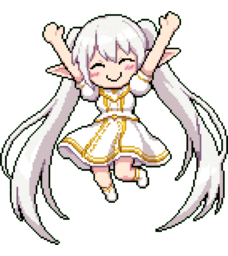
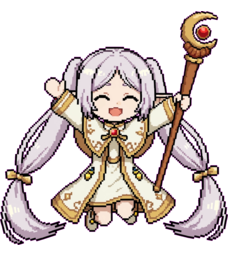
docs(frieren): real reading/celebrate sprites, sprite prompt, archify architecture diagram
- reading.png + celebrate.png generated from the adapted sprite prompt
  (idle.png as style reference, magenta chroma, 228x256 with blink rects)
- assets/SPRITE_PROMPT.md records the prompt and the post-process pipeline
- .archify architecture diagram of ShellRoot, chat, opencode, db, tray, voice
- README links to the diagram and the sprite prompt

diff --git a/assets/SPRITE_PROMPT.md b/assets/SPRITE_PROMPT.md
@@ -1,0 +1,51 @@
+# Sprite prompt (poses nuevas)
+
+Prompt adaptado del original (6 poses, ChatGPT) para generar poses nuevas de a
+pares manteniendo al personaje consistente. Referencia visual: usar
+`quickshell/frieren/assets/poses/idle.png` como imagen adjunta.
+
+## ES
+
+Usá la imagen adjunta como referencia exacta del personaje y del estilo.
+
+Generá una HOJA DE SPRITES de 2 columnas por 1 fila, en 1024x512, con 2 celdas iguales de 512x512. Sin líneas de división, sin marcos, sin texto, sin números, sin títulos y sin etiquetas. Las 2 celdas van pegadas, sin espacios entre ellas.
+
+FONDO: magenta puro #FF00FF, plano y uniforme en toda la imagen. No uses otro color de fondo, ni degradados, ni sombras.
+
+PERSONAJE (idéntico en las 2 celdas): Frieren chibi fan art, pixel art. Pelo blanco plateado muy largo en dos colas con moños dorados, orejas de elfo, ojos verdes, túnica blanca y dorada con gema roja en el cuello, bastón de madera con medialuna dorada y gema roja en la punta. Proporciones chibi, cabeza grande. Mismo tamaño, mismo encuadre, cuerpo completo, centrada, mirando al frente y con los pies sobre la misma línea imaginaria en ambas celdas.
+
+POSES, en este orden exacto (izquierda a derecha):
+1. celebrate: festejando de alegría, ambos brazos en alto (el bastón en la mano derecha levantada), ojos cerrados en curva, gran sonrisa, pequeño salto.
+2. reading: leyendo tranquila, un grimorio grande de tapas marrones abierto que sostiene con ambas manos, mirada baja hacia el libro, expresión concentrada (sin bastón a la vista).
+
+REGLAS: no cambies el estilo, la paleta, el grosor de línea, las proporciones ni el tamaño del personaje. No agregues sombras en el piso, decoraciones, marcos ni objetos extra (salvo el grimorio de la celda 2). No escribas texto en ninguna parte.
+Si no obedece bien el layout, esta versión en inglés suele funcionar mejor:
+
+## EN
+
+Use the attached image as the exact character and style reference.
+
+Create a SPRITE SHEET with 2 columns and 1 row, 1024x512, two equal 512x512 cells. No dividers, no grid lines, no frames, no text, no numbers, no labels, no title. The cells must touch each other with no gaps.
+
+BACKGROUND: flat pure magenta #FF00FF across the entire image. No other background color, no gradients, no shadows.
+
+CHARACTER (identical in both cells): Frieren chibi fan art, pixel art. Very long silver-white hair in twin tails with gold bows, pointed elf ears, green eyes, white and gold mage robe with a red gem at the collar, wooden staff topped with a gold crescent and a red gem. Chibi proportions, big head. Same size, same framing, full body, centered, facing the viewer, feet on the same imaginary baseline in both cells.
+
+POSES in this exact order (left to right):
+1. celebrate: cheering with joy, both arms raised (staff in the raised right hand), eyes closed in a happy curve, big smile, tiny jump.
+2. reading: calmly reading, a large open brown grimoire held with both hands, eyes looking down at the book, focused expression (no staff visible).
+
+RULES: do not change the art style, palette, line weight, proportions or character size. Do not add floor shadows, decorations, frames or extra objects (except the cell 2 grimoire). Do not write text anywhere.
+
+## Post-proceso (magenta -> sprite 228x256 con transparencia)
+
+```bash
+# 1. partir la hoja por la mitad (ajustar W্যা según identify)
+magick sheet.webp -crop ${HALF}x${H}+0+0 +repage cell-celebrate.png
+magick sheet.webp -crop ${HALF}x${H}+${HALF}+0 +repage cell-reading.png
+# 2. chroma key + encuadre (subir fuzz si queda halo, 12-20%)
+magick cell-celebrate.png -fuzz 18% -transparent "#FF00FF" -trim +repage \
+  -resize 228x256 -background none -gravity center -extent 228x256 celebrate.png
+# 3. registrar ojos para el blink en quickshell/frieren/assets/poses/poses.json
+#    (eyes: [] si los tiene cerrados; skin: muestrear la mejilla)
+```

diff --git a/README.md b/README.md
@@ -62,9 +62,11 @@ matches what you get after install.
 | --- | --- |
 | Config, tray menu and animations | `quickshell/frieren/README.md` |
 | Chat history and activity log | `quickshell/frieren/README.md` (History and activity log) |
+| Architecture diagram (interactive) | `.archify/architecture-frieren-desk-20261122-021442/frieren-desk.html` |
 | OpenCode account setup | tray menu, `quickshell/frieren/components/AuthDialog.qml`, `shell.qml` |
 | Persona, permissions and command denylist | `opencode/agents/frieren.md` |
 | Source sprite sheet (art reference) | `assets/frieren-sheet.png` |
+| Sprite prompt for new poses | `assets/SPRITE_PROMPT.md` |
 | Tray icon pipeline (development) | `tools/make_icon.sh` |
 | Hyprland bind and autostart | `hypr/frieren.lua` |
 | Installer and app menu launcher | `install.sh`, `tools/frieren-launch.sh` |
